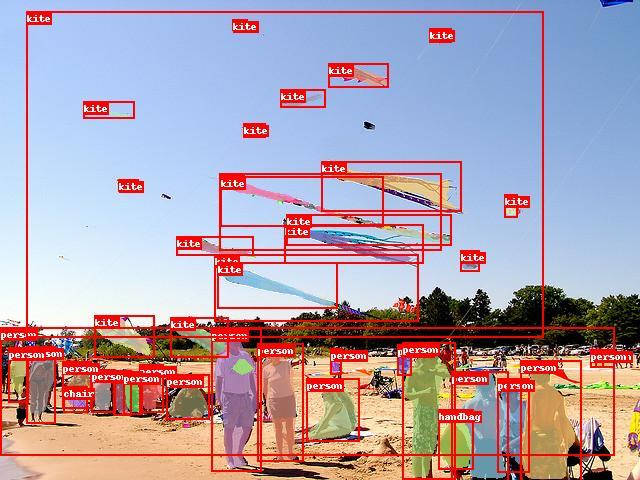
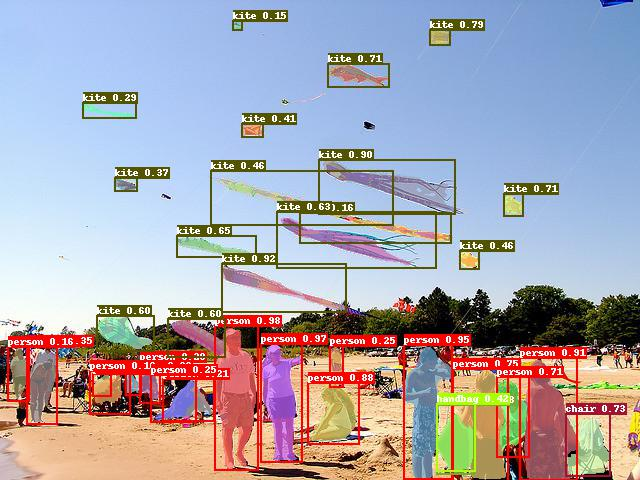
refine README & use a better visualization for doc

diff --git a/PaddleCV/PaddleDetection/tools/infer.py b/PaddleCV/PaddleDetection/tools/infer.py
@@ -166,7 +166,8 @@ def main():
             image_path = imid2path[int(im_id)]
             image = Image.open(image_path).convert('RGB')
             image = visualize_results(image,
-                                      int(im_id), catid2name, 0.5, bbox_results,
+                                      int(im_id), catid2name,
+                                      FLAGS.draw_threshold, bbox_results,
                                       mask_results, is_bbox_normalized)
             save_name = get_save_image_name(FLAGS.output_dir, image_path)
             logger.info("Detection bbox results save in {}".format(save_name))
@@ -190,5 +191,10 @@ if __name__ == '__main__':
         type=str,
         default="output",
         help="Directory for storing the output visualization files.")
+    parser.add_argument(
+        "--draw_threshold",
+        type=float,
+        default=0.5,
+        help="Threshold to reserve the result for visualization.")
     FLAGS = parser.parse_args()
     main()

diff --git a/PaddleCV/PaddleDetection/README.md b/PaddleCV/PaddleDetection/README.md
@@ -36,16 +36,16 @@ multi-GPU training.
 
 Supported Architectures:
 
-|                    | ResNet | ResNet-vd <sup>[1](#vd)</sup> | ResNeXt | SENet | MobileNet | DarkNet |
-|--------------------|:------:|------------------------------:|:-------:|:-----:|:---------:|:-------:|
-| Faster R-CNN       | ✓      |                             ✓ | ✓       | ✓     | ✗         | ✗       |
-| Faster R-CNN + FPN | ✓      |                             ✓ | ✓       | ✓     | ✗         | ✗       |
-| Mask R-CNN         | ✓      |                             ✓ | ✓       | ✓     | ✗         | ✗       |
-| Mask R-CNN + FPN   | ✓      |                             ✓ | ✓       | ✓     | ✗         | ✗       |
-| Cascade R-CNN      | ✓      |                             ✗ | ✗       | ✗     | ✗         | ✗       |
-| RetinaNet          | ✓      |                             ✗ | ✗       | ✗     | ✗         | ✗       |
-| Yolov3             | ✓      |                             ✗ | ✗       | ✗     | ✓         | ✓       |
-| SSD                | ✗      |                             ✗ | ✗       | ✗     | ✓         | ✗       |
+|                    | ResNet | ResNet-vd <sup>[1](#vd)</sup> | SENet | MobileNet | DarkNet |
+|--------------------|:------:|------------------------------:|:-----:|:---------:|:-------:|
+| Faster R-CNN       | ✓      |                             ✓ | ✓     | ✗         | ✗       |
+| Faster R-CNN + FPN | ✓      |                             ✓ | ✓     | ✗         | ✗       |
+| Mask R-CNN         | ✓      |                             ✓ | ✓     | ✗         | ✗       |
+| Mask R-CNN + FPN   | ✓      |                             ✓ | ✓     | ✗         | ✗       |
+| Cascade R-CNN      | ✓      |                             ✗ | ✗     | ✗         | ✗       |
+| RetinaNet          | ✓      |                             ✗ | ✗     | ✗         | ✗       |
+| Yolov3             | ✓      |                             ✗ | ✗     | ✓         | ✓       |
+| SSD                | ✗      |                             ✗ | ✗     | ✓         | ✗       |
 
 <a name="vd">[1]</a> [ResNet-vd](https://arxiv.org/pdf/1812.01187) models offer much improved accuracy with negligible performance cost.
 
@@ -75,8 +75,8 @@ be saved in `output`.
 ```bash
 export PYTHONPATH=`pwd`:$PYTHONPATH
 python tools/infer.py -c configs/mask_rcnn_r50_1x.yml \
-    -o weights=https://paddlemodels.bj.bcebos.com/object_detection/mask_rcnn_r50_1x.tar
-    -infer_img=demo/000000570688.jpg
+    -o weights=https://paddlemodels.bj.bcebos.com/object_detection/mask_rcnn_r50_1x.tar \
+    --infer_img=demo/000000570688.jpg
 ```
 
 For detailed training and evaluation workflow, please refer to [GETTING_STARTED.md](docs/GETTING_STARTED.md).
